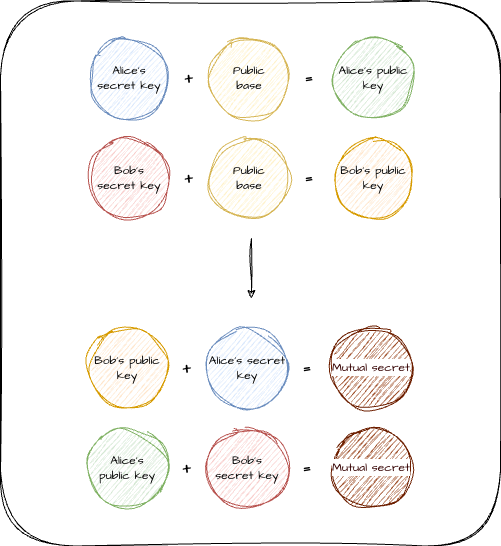
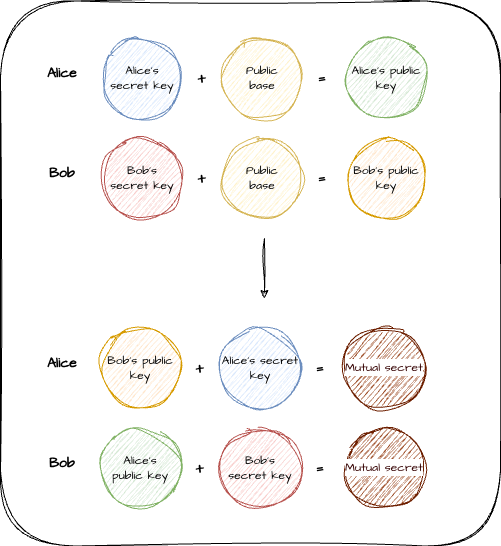
Refactor explanaiton

diff --git a/content/articles/end-to-end-encryption/pt2-asymmetric-cryptography-and-secure-collaboration.md b/content/articles/end-to-end-encryption/pt2-asymmetric-cryptography-and-secure-collaboration.md
@@ -95,11 +95,11 @@ As discussed in [Part 1](./pt1-secure-single-user-storage), a single-user system
 
 The password salt and Argon2id configuration string live on the server profile row. When logging in, the client downloads this bundle, applies the parameters to the user's password, and spins up the Master Key straight into volatile memory (RAM).
 
-| Column Name | What the Server Sees                     | Who Can Read / Use It?                            |
-| ----------- | ---------------------------------------- | ------------------------------------------------- |
-| user_id     | user_alice_11                            | Server & Client (Identity Lookup)                 |
-| email       | alice@clinic.com                         | Server (Authentication & login)                   |
-| kdf_salt    | `$argon2id$v=19$m=65536,t=3,p=4$sAlT...` | Client Only (Downloaded to derive the Master Key) |
+| Column Name                      | What the Server Sees                     | Who Can Read / Use It?                            |
+| -------------------------------- | ---------------------------------------- | ------------------------------------------------- |
+| user_id                          | user_alice_11                            | Server & Client (Identity Lookup)                 |
+| email                            | alice@clinic.com                         | Server (Authentication & login)                   |
+| kdf_salt (kdf parameters & salt) | `$argon2id$v=19$m=65536,t=3,p=4$sAlT...` | Client Only (Downloaded to derive the Master Key) |
 
 The **derived Master Key** is never sent to the server. During an active session, the client app either fetches this key from its non-extractable store in IndexedDB or prompts the user for their password to recreate it.
 
@@ -116,7 +116,7 @@ Every individual record requires its own random, unique Symmetric IV (Initializa
 
 ## 2. Multi-User Collaborative Architecture
 
-In a collaborative system, we break that hard link between your password and the data. We strip the data encryption keys (DEKs) out of the user profile entirely. Instead, the profile holds an Asymmetric Mailbox (your Public/Private key pair). The data payloads are encrypted with their own independent, standalone keys (Group AES Keys), which live right inside the document rows—wrapped separately for each user who has permission to view them.
+In a collaborative system, we break that hard link between your password and the data. We strip the data encryption keys (DEKs) out of the user profile entirely. Instead, the profile holds an Asymmetric Mailbox (your Public/Private key pair). The data payloads are encrypted with their own independent, standalone keys (Group AES Keys), which live right inside the document rows, wrapped separately for each user who has permission to view them.
 
 ### User Profile Schema
 
@@ -190,47 +190,12 @@ sequenceDiagram
     Bob ->> Bob: 5. Decrypts the Document payload using the DEK
 ```
 
-- **Asynchronous Retrieval:** Alice fetches Bob’s pre-published Public Key from the server. Bob does not need to be online for this to happen.
-- **Key Wrapping:** Alice encrypts the document's unique 32-byte DEK using Bob’s Public Key. This process is called "wrapping."
-- **Storage:** Alice sends the symmetrically encrypted document payload along with Bob's wrapped key to the server.
-- **Decryption:** When Bob logs in later, he downloads the wrapped key and uses his strictly private Private Key to unwrap it, revealing the 32-byte DEK required to decrypt the file.
-
-```mermaid
-sequenceDiagram
-    participant Alice as Alice (Sender)
-    participant Server as Cloud Storage / Server
-    participant Bob as Bob (Receiver)
-
-    note over Alice, Server: [Asynchronous Retrieval]
-    Alice ->> Server: Fetches Bob's verified Public Key (B_pub)
-    note over Server: Bob does not need to be online
-    Server -->> Alice: Returns Bob's Public Key (B_pub)
-
-
-    note over Alice: [Data Encryption & Key Wrapping]
-    Alice ->> Alice: 1. Generates random 32-byte DEK
-    Alice ->> Alice: 2. Encrypts Document payload with that DEK
-    Alice ->> Alice: 3. Encrypts ("Wraps") the DEK using Bob's B_pub
-
-    note over Alice, Server: [Storage]
-    Alice ->> Server: Uploads Package (Encrypted Document + Wrapped DEK)
-    note over Server: Package sits securely on the server<br/>waiting for Bob to log in
-
-    note over Server, Bob: [Decryption (Later on)]
-    Bob ->> Server: Logs in and downloads Package
-    Server -->> Bob: Returns Encrypted Document + Wrapped DEK
-
-    Bob ->> Bob: 4. Unwraps the DEK using his Private Key (B_priv)
-    Bob ->> Bob: 5. Decrypts the Document payload using the DEK
-```
-
 ## Managing the Lifecycle of the DEK
 
 Because the data is stored statically in the cloud, managing how Bob accesses the document over time is incredibly straightforward:
 
 - **The One-Time Cost:** Alice only has to perform the RSA wrapping math once per recipient. Once the encrypted document and wrapped DEK are stored on the server, Alice's job is completely done.
-- **Decrypting Today (First Time):** Bob downloads the package, uses his RSA private key to unwrap the DEK, and uses that DEK to read the file. To avoid doing heavy RSA mathematics every single time he wants to open the document, his client browser saves the decrypted 32-byte DEK directly into his local, non-extractable IndexedDB cache.
-- **Decrypting Tomorrow (Historical View):** When Bob returns to read the historical document tomorrow, he bypasses the asymmetric unwrapping entirely. He does not need to touch his RSA private key. His browser simply fetches the document's specific DEK straight from his local IndexedDB cache and decrypts the file instantly.
+- **Every Read, Same Path:** Whether Bob opens the document the moment it arrives or returns to it a year later, the flow never changes. He downloads the package, uses his static RSA private key to unwrap the DEK, and uses that DEK to decrypt the file. Because the wrapped DEK travels with the document itself, there is no session state to keep alive between reads. His private key is the only thing that ever needs to be present.
 
 ## Why use it
 
@@ -244,7 +209,7 @@ Rather than Alice statically locking a secret for Bob, Alice and Bob’s cryptog
 
 ## The Paint-Mixing Analogy
 
-Think of it like mixing paint: Alice and Bob start with a shared public base color (Yellow). This base isn't unique to either of them—it is a global, standardized starting point that everyone on the network knows. They each mix in their own secret color locally and swap the resulting mixtures. By then adding their own secret color to the other person's mixture, they both arrive at the exact same final shade (Brown)—all without ever exposing their pure secret colors over the network.
+Think of it like mixing paint: Alice and Bob start with a shared public base color (Yellow). This base isn't unique to either of them. It is a global, standardized starting point that everyone on the network knows. They each mix in their own secret color locally and swap the resulting mixtures. By then adding their own secret color to the other person's mixture, they both arrive at the exact same final shade (Brown), all without ever exposing their pure secret colors over the network.
 
 <p align="center">
   <img src="/images/articles/end-to-end-encryption/key-agreement.png" alt="MVC Model"/>
@@ -256,15 +221,16 @@ An eavesdropper (Eve) only sees the public starting Yellow base and the intermed
 
 Here is how that color-mixing math maps to the actual system workflow:
 
-- **The Pre-requisite (The Public Base & Bob's Mix):** In cryptography, the global public base (Yellow) is called the _Generator Point_. Bob takes this base and mixes in his private key (Red), creating his public key (an Orange mixture). Alice fetches this verified Orange public key from a secure identity server. Because it is pre-verified, an active attacker cannot swap it out with a malicious key.
+- **The Pre-requisite (The Public Base & Bob's Mix):** In cryptography, the global public base (Yellow) is called the _Generator Point_. It isn't something Alice and Bob choose or negotiate: it is a fixed, publicly standardized constant defined by the elliptic curve itself (the P-256 curve specification ships its own Generator Point as part of its domain parameters). Every device implementing that curve starts from the exact same value. Bob takes this shared base and mixes in his private key (Red), creating his public key (an Orange mixture). Alice fetches this verified Orange public key from a secure identity server. Because it is pre-verified, an active attacker cannot swap it out with a malicious key.
 - **Data Encryption & Local Key Calculation (Alice's Mix):** Before anything is sent, Alice's device does the heavy lifting locally:
-  1. She generates a random, 32-byte Data Encryption Key (DEK) and uses it to encrypt the actual document payload.
-  2. She takes that same global public base (Yellow) and mixes in her own private key (Blue) to create her temporary public key (a Green mixture).
-  3. She applies her private key (Blue) to Bob’s public key (Orange). By combining them, she calculates the shared secret—the Key Encryption Key (KEK), which represents our final Brown shade.
-  4. She encrypts ("wraps") her random document DEK using that fresh Brown KEK.
+  1. She generates a random, 32-byte Data Encryption Key (DEK).
+  2. She uses that DEK to encrypt the actual document payload.
+  3. She takes that same global public base (Yellow) and mixes in her own private key (Blue) to create her temporary public key (a Green mixture).
+  4. She applies her private key (Blue) to Bob’s public key (Orange). By combining them, she calculates the shared secret: the Key Encryption Key (KEK), which represents our final Brown shade.
+  5. She encrypts ("wraps") the DEK from step 1 using that fresh Brown KEK.
 - **The Handshake (The Swap):** Alice bundles the encrypted document, the wrapped DEK, and her temporary public key (the Green mixture) into a package and transmits it over the network to Bob.
 - **The Convergence & Decryption (The Final Mix):** When Bob receives the package, his device completes the puzzle:
-  1. Bob applies his private key (Red) to Alice’s temporary public key (the Green mixture). Because the order of operations doesn't matter in elliptic curve geometry, adding Red to Green yields the exact same final coordinate—deriving the identical Brown KEK.
+  1. Bob applies his private key (Red) to Alice’s temporary public key (the Green mixture). Because the order of operations doesn't matter in elliptic curve geometry, adding Red to Green yields the exact same final coordinate, deriving the identical Brown KEK.
   2. Bob uses this KEK to decrypt the wrapped DEK.
   3. Bob uses the decrypted DEK to unpack and read the document payload.
 
@@ -290,9 +256,9 @@ sequenceDiagram
     Alice ->> Bob: Sends Package (Encrypted Document, Wrapped DEK, + A_pub [Green Mix])
 
     note over Alice, Bob: [The Convergence & Decryption]
-    Bob ->> Bob: 6. Calculates Shared Secret (KEK): B_priv [Red] x A_pub = KEK [Final Brown]
-    Bob ->> Bob: 7. Decrypts the DEK using the KEK
-    Bob ->> Bob: 8. Decrypts the Document payload using the DEK
+    Bob ->> Bob: 1. Calculates Shared Secret (KEK): B_priv [Red] x A_pub = KEK [Final Brown]
+    Bob ->> Bob: 2. Decrypts the DEK using the KEK
+    Bob ->> Bob: 3. Decrypts the Document payload using the DEK
 
     note over Alice, Bob: BOTH now possess the EXACT SAME KEK<br/>to unpack the document key.
 ```
@@ -305,14 +271,11 @@ To understand how this protects data over time, it helps to look at the relation
 - **The Key Envelope:** Alice uses the newly calculated KEK (the ECDH shared secret) to encrypt ("wrap") that 32-byte DEK.
 - **The Transfer:** The temporary ECDH keys exist solely to securely transport this DEK across the network.
 
-Once Bob’s device calculates the shared secret and uses it to decrypt the incoming DEK, his client browser saves that decrypted DEK directly into his local, non-extractable IndexedDB cache. The temporary session keys and the KEK are then permanently destroyed.
+Once Bob’s device calculates the shared secret and uses it to decrypt the incoming DEK, the temporary session key and the KEK are immediately discarded, they only ever existed to unwrap this one DEK.
 
 ## How to Decrypt the Data Later On
 
-Because the handshake keys are short-lived, the decryption process looks different depending on when Bob opens the document:
-
-- **Decrypting Today (First Time):** Bob's device performs the ECDH calculation using Alice's temporary public key and his own private key. He derives the KEK (our final Brown paint mixture), decrypts the incoming DEK, stores that DEK in his local cache, and uses it to decrypt the document.
-- **Decrypting Tomorrow (Historical View):** When Bob returns to read the historical document tomorrow, he bypasses the network handshake entirely. He does not need to recalculate the ECDH math or look for Alice's temporary public key. Instead, his browser fetches the document's specific DEK directly from his local IndexedDB cache and decrypts the file instantly.
+Bob's device repeats the same calculation every time he opens the document, whether that's moments after Alice shares it or months later: it reads Alice's ephemeral public key from the document's metadata, combines it with his own static private key to re-derive the KEK, and uses that KEK to unwrap the DEK before decrypting the payload. Because Alice's ephemeral public key travels with the document rather than existing only for a live session, Bob never needs to be online at the same time as Alice, and revisiting old data requires no new handshake, just his long-term private key.
 
 ## Why use it
 
@@ -345,7 +308,7 @@ Instead of forcing a live handshake, Bob's device pre-generates a bundle of temp
 
 When Bob logs back in days later, he downloads Alice's public key alongside the specific pre-key ID she used, performs the matching math, and immediately deletes the corresponding private pre-key from his device.
 
-Ultimately, choosing between RSA and ECDH is not just a math choice—it is an architectural design decision. For simple, offline-first document databases, Key Transport offers seamless usability out of the box. For high-security environments, real-time sync engines, or apps requiring strict compliance, implementing an asynchronous ECDH pre-key architecture is well worth the engineering complexity to guarantee absolute Forward Secrecy.
+Ultimately, choosing between RSA and ECDH is not just a math choice. It is an architectural design decision. For simple, offline-first document databases, Key Transport offers seamless usability out of the box. For high-security environments, real-time sync engines, or apps requiring strict compliance, implementing an asynchronous ECDH pre-key architecture is well worth the engineering complexity to guarantee absolute Forward Secrecy.
 
 # Implementing Asymmetric Key Architectures
 
@@ -490,7 +453,7 @@ async function downloadAndDecryptDocument(
     bobPrivateKey,
     { name: 'RSA-OAEP' },
     { name: 'AES-GCM', length: 256 },
-    true, // Allow the DEK to be extractable so it can be cached in IndexedDB for subsequent reads
+    false, // The DEK never needs to leave memory, so keep it non-extractable
     ['decrypt'], // Bob only needs decryption capabilities for this document
   );
 
@@ -667,7 +630,7 @@ async function downloadAndDecryptECDH(
     kek,
     { name: 'AES-KW' },
     { name: 'AES-GCM', length: 256 },
-    true, // Extractable so Bob can save it directly to IndexedDB cache for later
+    false, // The DEK never needs to leave memory, so keep it non-extractable
     ['decrypt'],
   );
 
